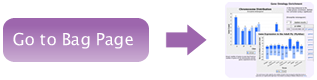
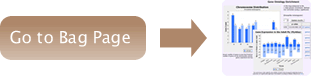
added colored versions

diff --git a/intermine/webapp/main/resources/webapp/webapp.css b/intermine/webapp/main/resources/webapp/webapp.css
@@ -108,14 +108,7 @@ a.extlink , a.extlink:link, a.extlink:visited, a.extlink:active, a.extlink:hover
 	padding:0px;
 	margin:0px;
 }
-.boxcontent {
-    border-left: 1px solid #9D66AD;
-    border-right: 1px solid #9D66AD;
-}
-.boxbottom {
-	height:9px;
-    border-bottom: 1px solid #9D66AD;
-}
+
 /*menu with nifty corners*/
 div#menu{float:left;top:90px; background-color: #D0B5D7;width:100%;position:absolute;}
 ul#nav,ul#nav li{list-style-type:none;margin:0;padding:0}
@@ -124,17 +117,22 @@ ul#nav li{float:left;margin-right: 5px;text-align: center}
 ul#nav a{
 	height:25px; 
 	float:left;
-	width: 7em;
-	background: #E7F1F8;
 	text-decoration:none;
 	color: #5C0075;
 	font: 75% Arial,sans-serif;
-	padding:5px 5px 0px 5px;
-	font-weight:+1;
+	padding:5px 15px 0px 15px;
 	white-space:nowrap;
+    font-weight:bold;
 }
-ul#nav a:hover{background: #FFA826;color: #FFF}
-ul#nav li.activelink a,ul#nav li.activelink a:hover{background: #FFF;color: #003}
+ul#nav a:hover{color:#000;}
+ul#nav li.activelink a,ul#nav li.activelink a:hover{background: #FFF;color: #003;}
+li#home a{background:#9D66AD;color:white;}
+li#bags a{background:#AD8668;color:white;}
+li#templates a{background:#4A497B;color:white;}
+li#query a{background:#589100;color:white;}
+li#category a{background:#663366;color:white;}
+li#mymine a{background:#9D66AD;color:white;}
+
 /*--end of new styles 05-2007--*/
 
 #quicksearch{position:absolute;top:85px;right:5px;font-size: 0.8em;margin:0px 10px 0px 0px;color:white;}
